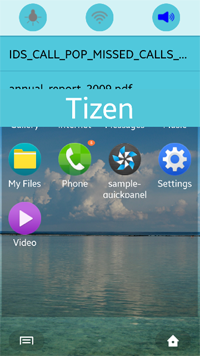
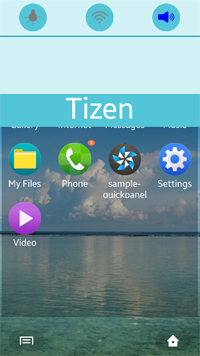
Remove descriptions for internal API of notification.

Changed region(s): [[0.0, 0.0927, 1.0, 0.2781]]

diff --git a/org.tizen.sampledescriptions/html/mobile_n/quickpanel_sd_mn.htm b/org.tizen.sampledescriptions/html/mobile_n/quickpanel_sd_mn.htm
@@ -38,7 +38,6 @@
  <li>Sound: allows to switch the device into silent mode.</li>
 </ul>
 <p>Tap the icon to switch the setting on or off.</p>
-<p>In the middle of the screen there is a list of currently pending notifications. Tap any of them to dismiss the notification and launch the application to see its details.</p>
 
 <p>The following figure illustrates the quickpanel layout structure.</p>
 
@@ -55,7 +54,6 @@
  <li><span style="font-family: Courier New,Courier,monospace;">http://tizen.org/privilege/network.set</span></li>
  <li><span style="font-family: Courier New,Courier,monospace;">http://tizen.org/privilege/bluetooth</span></li>
  <li><span style="font-family: Courier New,Courier,monospace;">http://tizen.org/privilege/led</span></li>
- <li><span style="font-family: Courier New,Courier,monospace;">http://tizen.org/privilege/notification</span></li>
 </ul>
 <p>You are able to run the application only on devices supporting the following features:</p>
 
@@ -69,14 +67,14 @@
 <p>The Quickpanel application follows the MVC pattern. Aside from standard native application module with the <span style="font-family: Courier New,Courier,monospace">main()</span> function, it consists of:</p>
 <ul>
  <li><span style="font-family: Courier New,Courier,monospace;">controler.c</span> module</li>
- <li><span style="font-family: Courier New,Courier,monospace;">light.c</span>, <span style="font-family: Courier New,Courier,monospace;">notifications.c</span>, <span style="font-family: Courier New,Courier,monospace;">sound.c</span>, and <span style="font-family: Courier New,Courier,monospace;">wifi.c</span> modules serving as the model</li>
- <li><span style="font-family: Courier New,Courier,monospace;">main_view.c</span>, <span style="font-family: Courier New,Courier,monospace;">control_panel.c</span>, and <span style="font-family: Courier New,Courier,monospace;">noti_list.c</span> modules serving as the view</li>
+ <li><span style="font-family: Courier New,Courier,monospace;">light.c</span>, <span style="font-family: Courier New,Courier,monospace;">sound.c</span>, and <span style="font-family: Courier New,Courier,monospace;">wifi.c</span> modules serving as the model</li>
+ <li><span style="font-family: Courier New,Courier,monospace;">main_view.c</span>, <span style="font-family: Courier New,Courier,monospace;">control_panel.c</span> modules serving as the view</li>
 </ul>
 
 
 <h3>Controller</h3>
 
-<p>The application is initialized with the <span style="font-family: Courier New,Courier,monospace">controler_init()</span> function. This function creates the main view and initializes the rest of the modules. It also adds callbacks to the main view for control panel item click and notification list item click. This is how information about user interactions is delivered to the controller module.</p>
+<p>The application is initialized with the <span style="font-family: Courier New,Courier,monospace">controler_init()</span> function. This function creates the main view and initializes the rest of the modules. It also adds callbacks to the main view for control panel item click. This is how information about user interactions is delivered to the controller module.</p>
 <pre class="prettyprint">
 Eina_Bool
 controler_init(void)
@@ -95,14 +93,12 @@ controler_init(void)
 
 &nbsp;&nbsp;&nbsp;// Error handling
 
-&nbsp;&nbsp;&nbsp;main_view_add_callbacks(__ui_state_changed_cb, __noti_clicked_cb);
-
 &nbsp;&nbsp;&nbsp;__init_modules();
 
 &nbsp;&nbsp;&nbsp;return EINA_TRUE;
 }
 </pre>
-<p>The <span style="font-family: Courier New,Courier,monospace">__init_modules()</span> function initializes Wi-Fi, light, sound and notification modules. It also checks states of the modules and updates the main view to reflect them.</p>
+<p>The <span style="font-family: Courier New,Courier,monospace">__init_modules()</span> function initializes Wi-Fi, light, sound modules. It also checks states of the modules and updates the main view to reflect them.</p>
 <p>Each module initialization procedure takes one or more callbacks as parameters. These callbacks are used to inform the controller module about the changes in respective modules. This is essential because these settings can also be changed from outside of the Quickpanel application and the view has to be updated accordingly.</p>
 <pre class="prettyprint">
 static void
@@ -131,9 +127,6 @@ __init_modules(void)
 &nbsp;&nbsp;&nbsp;if (sound_is_active())
 &nbsp;&nbsp;&nbsp;&nbsp;&nbsp;&nbsp;main_view_update(ICON_TYPE_SOUND, ICON_ACTION_ACTIVATION);
 
-&nbsp;&nbsp;&nbsp;result = notifications_init(__noti_list_update_cb);
-
-&nbsp;&nbsp;&nbsp;// Error handling
 }
 </pre>
 
@@ -189,7 +182,6 @@ __light_poll_timeout_cb(void *data)
 <p>The Quickpanel sample application takes into account changes in three sound types (as it serves as mute/unmute application):</p>
 <ul>
  <li>System: volume level of system sounds such as key taps</li>
- <li>Notification: volume level of notification sounds (such as incoming SMS or email)</li>
  <li>Ringtone: volume level of an incoming call</li>
 </ul>
 <p>When the user wants to mute the phone, the application stores the initial volumes of these types and sets the current values to 0. The preserved volume values are restored when the user unmutes the phone.</p>
@@ -207,7 +199,6 @@ sound_init(sound_state_change_cb change_cb)
 &nbsp;&nbsp;&nbsp;sound_data.change_cb = change_cb;
 
 &nbsp;&nbsp;&nbsp;sound_data.system_sound_level = __get_sound_level(SOUND_TYPE_SYSTEM);
-&nbsp;&nbsp;&nbsp;sound_data.notification_sound_level = __get_sound_level(SOUND_TYPE_NOTIFICATION);
 &nbsp;&nbsp;&nbsp;sound_data.ringtone_sound_level = __get_sound_level(SOUND_TYPE_RINGTONE);
 
 &nbsp;&nbsp;&nbsp;return true;
@@ -238,9 +229,6 @@ __volume_changed_cb(sound_type_e type, unsigned int volume, void *user_data)
 &nbsp;&nbsp;&nbsp;{
 &nbsp;&nbsp;&nbsp;&nbsp;&nbsp;&nbsp;case SOUND_TYPE_SYSTEM:
 &nbsp;&nbsp;&nbsp;&nbsp;&nbsp;&nbsp;&nbsp;&nbsp;&nbsp;sound_data.system_sound_level = (int)volume;
-&nbsp;&nbsp;&nbsp;&nbsp;&nbsp;&nbsp;&nbsp;&nbsp;&nbsp;break;
-&nbsp;&nbsp;&nbsp;&nbsp;&nbsp;&nbsp;case SOUND_TYPE_NOTIFICATION:
-&nbsp;&nbsp;&nbsp;&nbsp;&nbsp;&nbsp;&nbsp;&nbsp;&nbsp;sound_data.notification_sound_level = (int)volume;
 &nbsp;&nbsp;&nbsp;&nbsp;&nbsp;&nbsp;&nbsp;&nbsp;&nbsp;break;
 &nbsp;&nbsp;&nbsp;&nbsp;&nbsp;&nbsp;case SOUND_TYPE_RINGTONE:
 &nbsp;&nbsp;&nbsp;&nbsp;&nbsp;&nbsp;&nbsp;&nbsp;&nbsp;sound_data.ringtone_sound_level = (int)volume;
@@ -318,70 +306,11 @@ wifi_set_off(void)
 }
 </pre>
 </li>
-
-<li>Notifications:
-<p>Notifications module implementation is timer based. The code periodically checks whether any system notifications exist, and if so, puts them into the notifications list.</p>
-<p>Notifications initialization code takes a single parameter, the controller callback function, to communicate when the notifications list needs to be updated.</p>
-<pre class="prettyprint">
-bool
-notifications_init(noti_list_update_cb update_cb)
-{
-&nbsp;&nbsp;&nbsp;// Declare the variables
-&nbsp;&nbsp;&nbsp;noti_data.notifications = eina_inarray_new(sizeof(notification_item_t), NOTI_ARRAY_STEP);
-
-&nbsp;&nbsp;&nbsp;// Error handling
-
-&nbsp;&nbsp;&nbsp;noti_data.change_cb = update_cb;
-
-&nbsp;&nbsp;&nbsp;if (noti_data.change_cb) 
-&nbsp;&nbsp;&nbsp;{
-&nbsp;&nbsp;&nbsp;&nbsp;&nbsp;&nbsp;noti_data.poll_timer = ecore_timer_add(NOTI_POLL_INTERVAL_SEC, __noti_poll_timeout_cb, NULL);
-
-&nbsp;&nbsp;&nbsp;&nbsp;&nbsp;&nbsp;// Error handling
-
-&nbsp;&nbsp;&nbsp;&nbsp;&nbsp;&nbsp;return true;
-&nbsp;&nbsp;&nbsp;}
-}
-</pre>
-
-<p>The polling uses the <span style="font-family: Courier New,Courier,monospace">notification_get_list()</span> function to retrieve all notifications. It then saves this information in an array of <span style="font-family: Courier New,Courier,monospace">notification_item_t</span> objects.</p>
-<p>There are two notificaton types, <span style="font-family: Courier New,Courier,monospace">NOTIFICATION_TYPE_NOTI</span> and <span style="font-family: Courier New,Courier,monospace">NOTIFICATION_TYPE_ONGOING</span>. Each time new lists are retrieved, the old ones are freed and all notification handles are invalidated. The controller module is informed about a new notification using the <span style="font-family: Courier New,Courier,monospace">noti_data.change_cb()</span>function.</p>
-
-<pre class="prettyprint">
-static Eina_Bool
-__noti_poll_timeout_cb(void *data)
-{
-&nbsp;&nbsp;&nbsp;// Declare the variables
-
-&nbsp;&nbsp;&nbsp;__free_array_elements();
-&nbsp;&nbsp;&nbsp;__free_temporary_lists();
-
-&nbsp;&nbsp;&nbsp;ret = notification_get_list(NOTIFICATION_TYPE_NOTI, -1, &amp;list);
-
-&nbsp;&nbsp;&nbsp;// Error handling
-
-&nbsp;&nbsp;&nbsp;noti_data.noti_list_h = list;
-&nbsp;&nbsp;&nbsp;__process_list(list);
-
-&nbsp;&nbsp;&nbsp;ret = notification_get_list(NOTIFICATION_TYPE_ONGOING, -1, &amp;list);
-
-&nbsp;&nbsp;&nbsp;// Error handling
-
-&nbsp;&nbsp;&nbsp;noti_data.ongoing_list_h = list;
-&nbsp;&nbsp;&nbsp;__process_list(list);
-
-&nbsp;&nbsp;&nbsp;if (noti_data.change_cb)
-&nbsp;&nbsp;&nbsp;&nbsp;&nbsp;&nbsp;noti_data.change_cb(noti_data.notifications);
-
-&nbsp;&nbsp;&nbsp;return ECORE_CALLBACK_RENEW;
-}
-</pre>
-</li>
 </ul>
 
 <h3>View</h3>
 
-<p>Main view initialization part takes place with the <span style="font-family: Courier New,Courier,monospace">main_view_create_base_gui()</span> function. It creates the three view elements: a quickpanel window, the notifications list, and the control panel.</p>
+<p>Main view initialization part takes place with the <span style="font-family: Courier New,Courier,monospace">main_view_create_base_gui()</span> function. It creates the three view elements: a quickpanel window and the control panel.</p>
 <pre class="prettyprint">
 Eina_Bool
 main_view_create_base_gui(char *device_name)
@@ -396,12 +325,6 @@ main_view_create_base_gui(char *device_name)
 &nbsp;&nbsp;&nbsp;vds.layout = create_layout(device_name);
 
 &nbsp;&nbsp;&nbsp;// Error handling
-
-&nbsp;&nbsp;&nbsp;vds.noti_list = noti_list_create(vds.layout);
-
-&nbsp;&nbsp;&nbsp;// Error handling
-
-&nbsp;&nbsp;&nbsp;elm_layout_content_set(vds.layout, PART_CONTENT, vds.noti_list);
 
 &nbsp;&nbsp;&nbsp;vds.toolbar = control_panel_create(vds.layout, __light_click_cb, __wifi_click_cb, __sound_click_cb);
 
